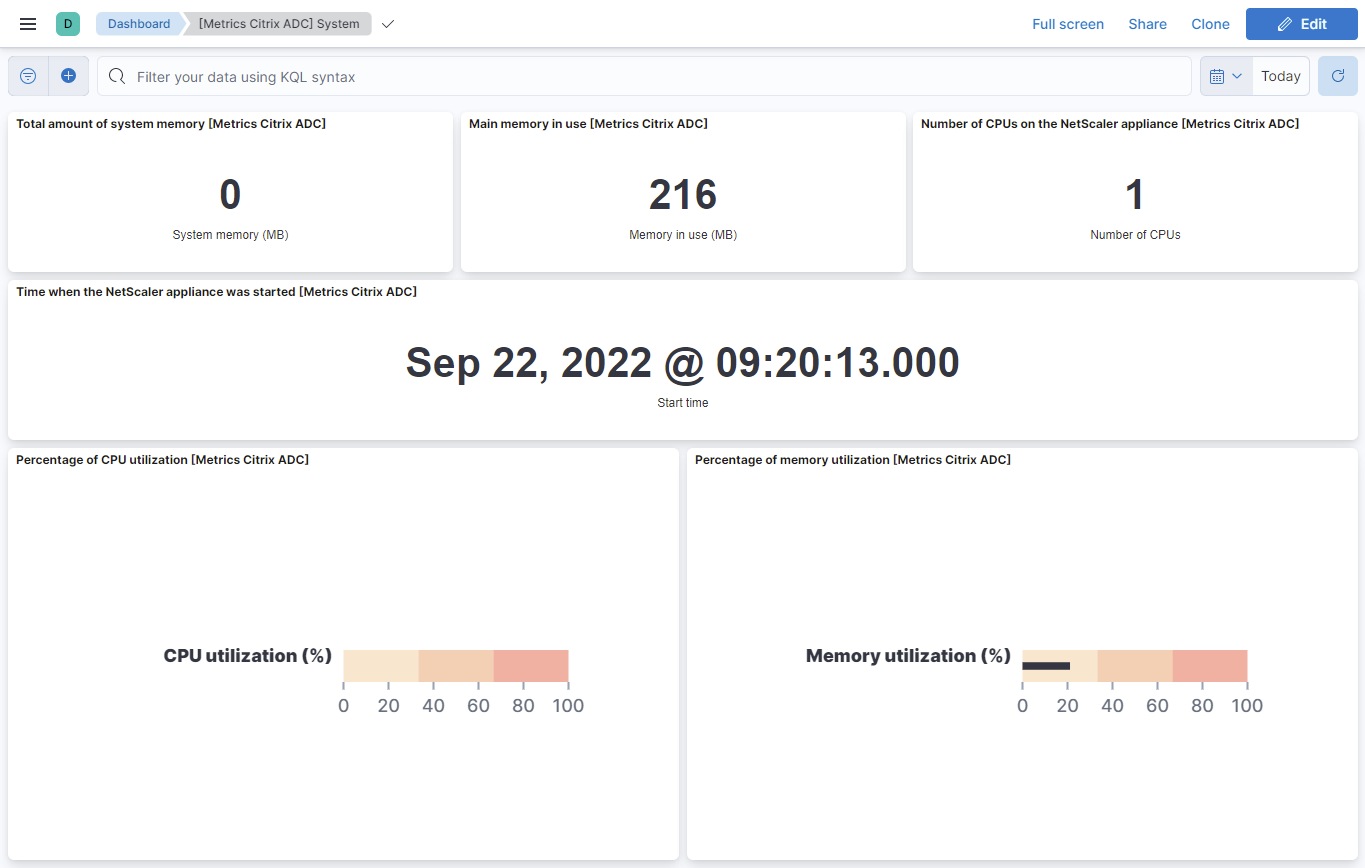
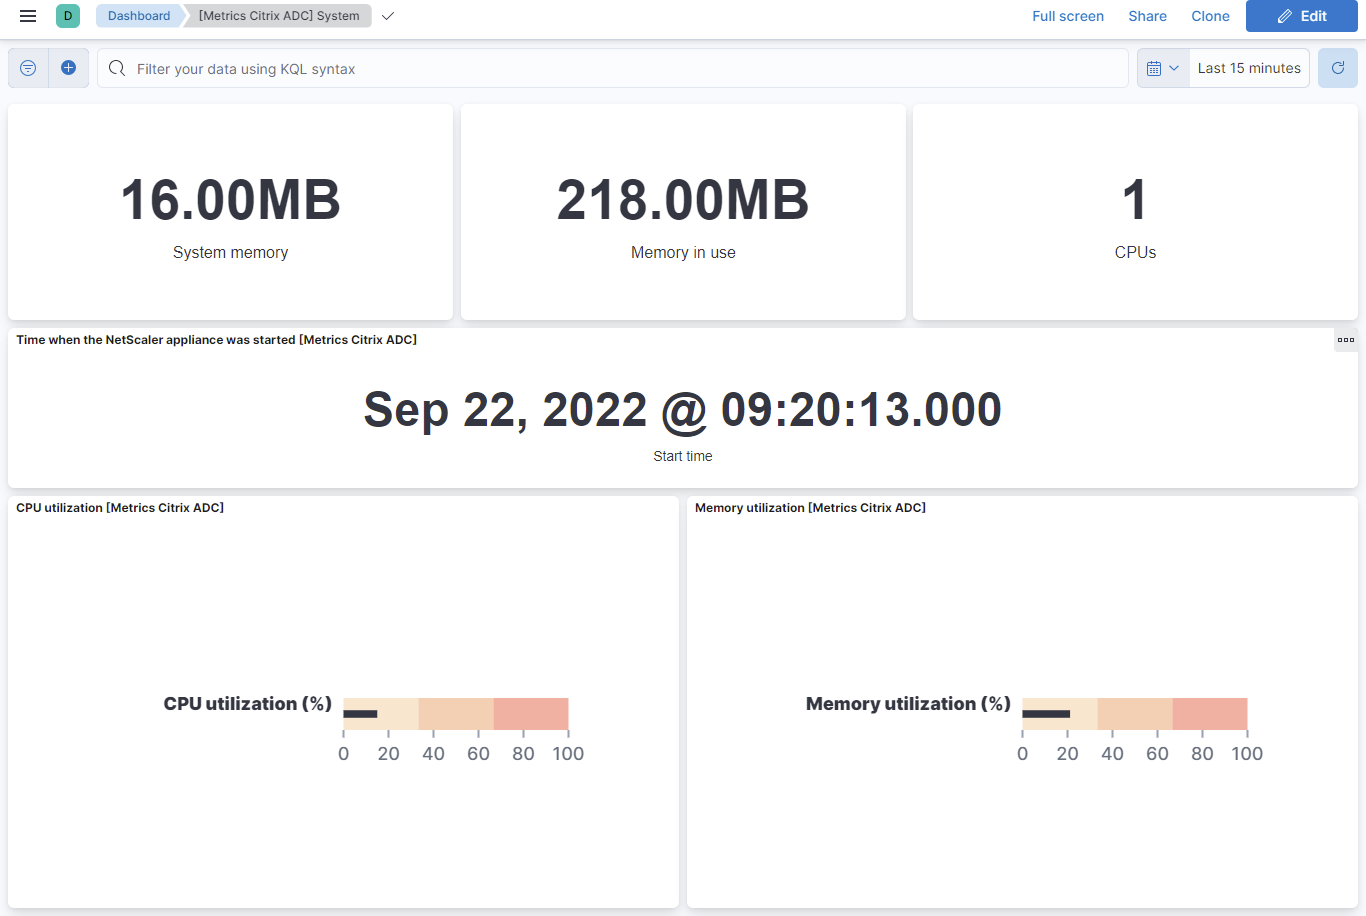
update visualization titles and pipeline

diff --git a/packages/citrix_adc/docs/README.md b/packages/citrix_adc/docs/README.md
@@ -43,10 +43,10 @@ An example event for `system` looks as following:
 
 ```json
 {
-    "@timestamp": "2022-10-07T12:48:57.300Z",
+    "@timestamp": "2022-11-03T11:58:48.678Z",
     "agent": {
-        "ephemeral_id": "9db98501-7504-4eca-8319-372763e31fd4",
-        "id": "47d605e9-8d81-42fa-ba0f-a2dc984cc420",
+        "ephemeral_id": "17888c67-ea5e-4c24-ad2d-6e1572930f9d",
+        "id": "f1fb7954-85ee-4fe3-971d-546763d1571b",
         "name": "docker-fleet-agent",
         "type": "filebeat",
         "version": "8.4.1"
@@ -89,10 +89,10 @@ An example event for `system` looks as following:
             },
             "memory": {
                 "size": {
-                    "mb": 0
+                    "value": 0
                 },
                 "usage": {
-                    "mb": 216
+                    "value": 226492416
                 },
                 "utilization": {
                     "pct": 21.114572
@@ -112,7 +112,7 @@ An example event for `system` looks as following:
         "version": "8.4.0"
     },
     "elastic_agent": {
-        "id": "47d605e9-8d81-42fa-ba0f-a2dc984cc420",
+        "id": "f1fb7954-85ee-4fe3-971d-546763d1571b",
         "snapshot": false,
         "version": "8.4.1"
     },
@@ -121,9 +121,9 @@ An example event for `system` looks as following:
         "category": [
             "web"
         ],
-        "created": "2022-10-07T12:48:57.300Z",
+        "created": "2022-11-03T11:58:48.678Z",
         "dataset": "citrix_adc.system",
-        "ingested": "2022-10-07T12:49:00Z",
+        "ingested": "2022-11-03T11:58:52Z",
         "kind": "event",
         "module": "citrix_adc",
         "original": "{\"errorcode\":0,\"message\":\"Done\",\"severity\":\"NONE\",\"system\":{\"addimgmtcpuusagepcnt\":0,\"auxtemp0\":0,\"auxtemp1\":0,\"auxtemp2\":0,\"auxtemp3\":0,\"auxvolt0\":0,\"auxvolt1\":0,\"auxvolt2\":0,\"auxvolt3\":0,\"auxvolt4\":0,\"auxvolt5\":0,\"auxvolt6\":0,\"auxvolt7\":0,\"cpu0temp\":0,\"cpu1temp\":0,\"cpufan0speed\":0,\"cpufan1speed\":0,\"cpuusage\":\"1\",\"cpuusagepcnt\":1.1,\"disk0avail\":1278,\"disk0perusage\":12,\"disk0size\":1585,\"disk0used\":180,\"disk1avail\":11441,\"disk1perusage\":12,\"disk1size\":14179,\"disk1used\":1603,\"fan0speed\":0,\"fan2speed\":0,\"fan3speed\":0,\"fan4speed\":0,\"fan5speed\":0,\"fanspeed\":0,\"internaltemp\":0,\"mastercpuusage\":\"4294967295\",\"memsizemb\":\"0\",\"memusagepcnt\":21.114572,\"memuseinmb\":\"216\",\"mgmtcpu0usagepcnt\":0.8,\"mgmtcpuusagepcnt\":0.8,\"numcpus\":\"1\",\"pktcpuusagepcnt\":1.1,\"powersupply1status\":\"NOT SUPPORTED\",\"powersupply2status\":\"NOT SUPPORTED\",\"powersupply3status\":\"NOT SUPPORTED\",\"powersupply4status\":\"NOT SUPPORTED\",\"rescpuusage\":\"4294967295\",\"rescpuusagepcnt\":4294967295,\"slavecpuusage\":\"4294967295\",\"starttime\":\"Thu Sep 22 03:50:13 2022\",\"starttimelocal\":\"Thu Sep 22 09:20:13 2022\",\"systemfanspeed\":0,\"timesincestart\":\"00:00:00\",\"voltagev12n\":0,\"voltagev12p\":0,\"voltagev33main\":0,\"voltagev33stby\":0,\"voltagev5n\":0,\"voltagev5p\":0,\"voltagev5sb\":0,\"voltagevbat\":0,\"voltagevcc0\":0,\"voltagevcc1\":0,\"voltagevsen2\":0,\"voltagevtt\":0}}",
@@ -157,8 +157,8 @@ An example event for `system` looks as following:
 | citrix_adc.system.cpu.utilization.slave.pct | CPU 1 (currently the slave CPU) utilization, as percentage of capacity. | float | percent | gauge |
 | citrix_adc.system.disk.usage.flash_partition.pct | Used space in /flash partition of the disk, as a percentage. | float | percent | gauge |
 | citrix_adc.system.disk.usage.var_partition.pct | Used space in /var partition of the disk, as a percentage. | float | percent | gauge |
-| citrix_adc.system.memory.size.mb | Total amount of system memory, in megabytes. | float | byte | gauge |
-| citrix_adc.system.memory.usage.mb | Main memory currently in use, in megabytes. | float | byte | gauge |
+| citrix_adc.system.memory.size.value | Total amount of system memory, in bytes. | float | byte | gauge |
+| citrix_adc.system.memory.usage.value | Main memory currently in use, in bytes. | float | byte | gauge |
 | citrix_adc.system.memory.utilization.pct | Percentage of memory utilization on NetScaler. | float | percent | gauge |
 | citrix_adc.system.start.time | Time when the NetScaler appliance was last started. | date |  |  |
 | data_stream.dataset | Data stream dataset. | constant_keyword |  |  |
